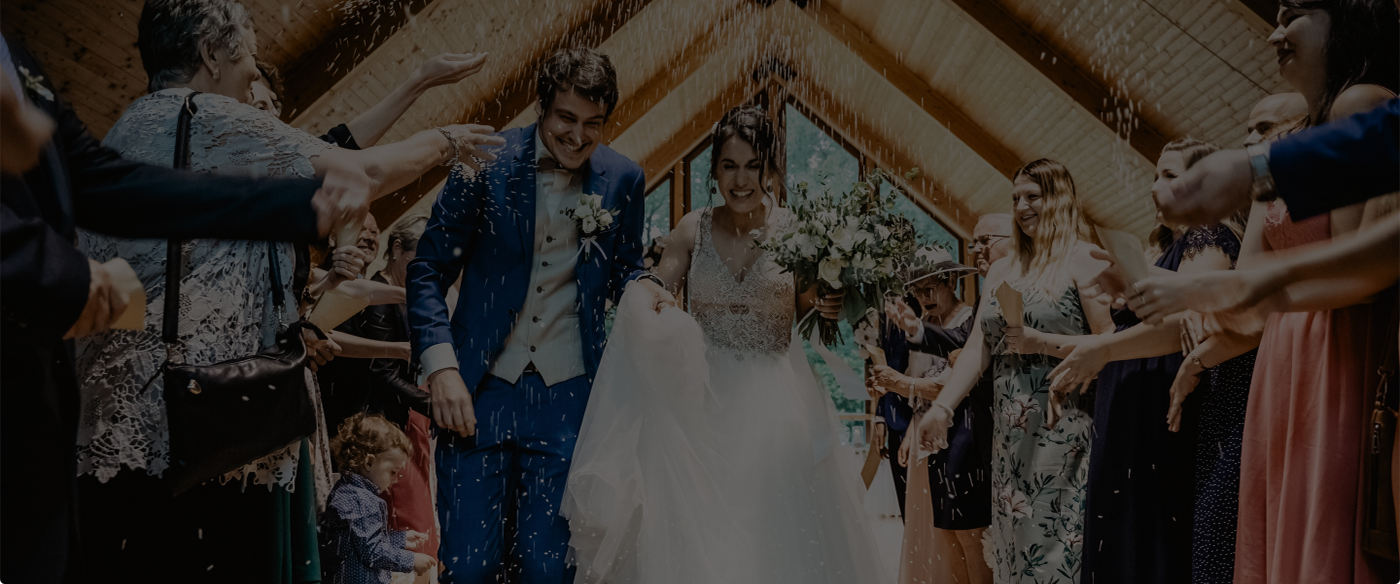
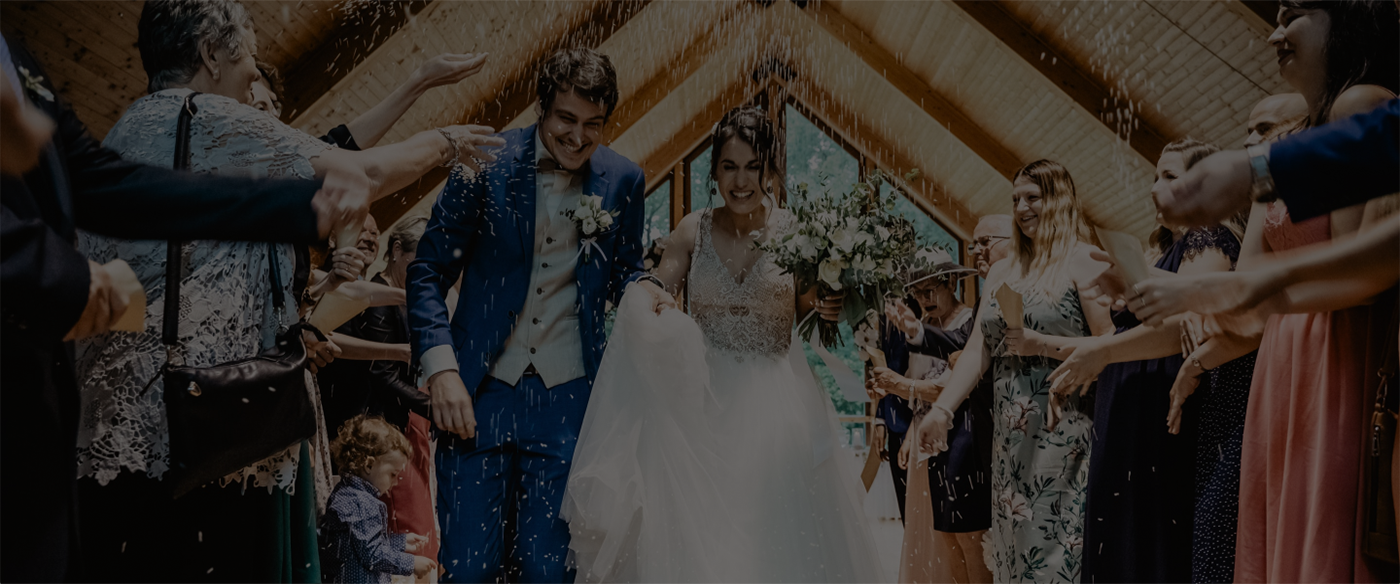
Final Product

diff --git a/index.html b/index.html
@@ -51,7 +51,7 @@
             </nav>
         </section>
         <!-- Carousel Section  -->
-        <section class="container-fluid">
+        <section class="container-fluid p-0">
             <div id="carouselExampleCaptions" class="carousel slide" data-bs-ride="carousel">
                 <div class="carousel-indicators ">
                     <button type="button" data-bs-target="#carouselExampleCaptions" data-bs-slide-to="0" class="active"
